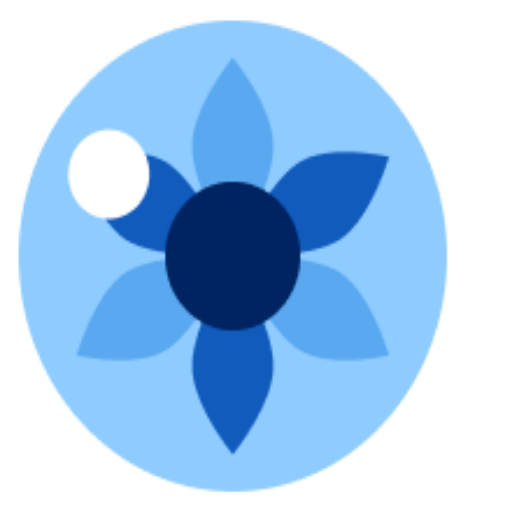
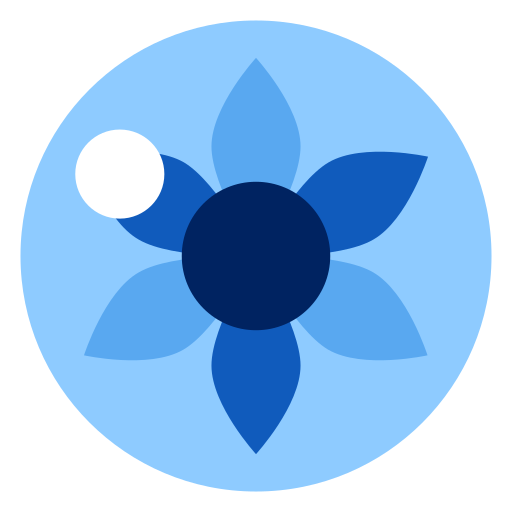
use original asset files

diff --git a/ui/index.html b/ui/index.html
@@ -1,7 +1,7 @@
 <!DOCTYPE html>
 <html>
   <head>
-    <title>PFC_EDU WiFi Connect</title>
+    <title>WiFi Connect</title>
     <meta name="viewport" content="width=device-width, initial-scale=1">
 
     <!-- Latest compiled and minified CSS -->
@@ -35,7 +35,7 @@
     <nav class="navbar navbar-inverse navbar-fixed-top">
       <div class="container">
         <div class="navbar-header">
-          <a class="navbar-brand"><img id="logo" height=30 src="/img/logo.png"></img></a>
+          <a class="navbar-brand"><img id="logo" height=30 src="/img/logo.svg"></img></a>
         </div>
       </div>
     </nav>
